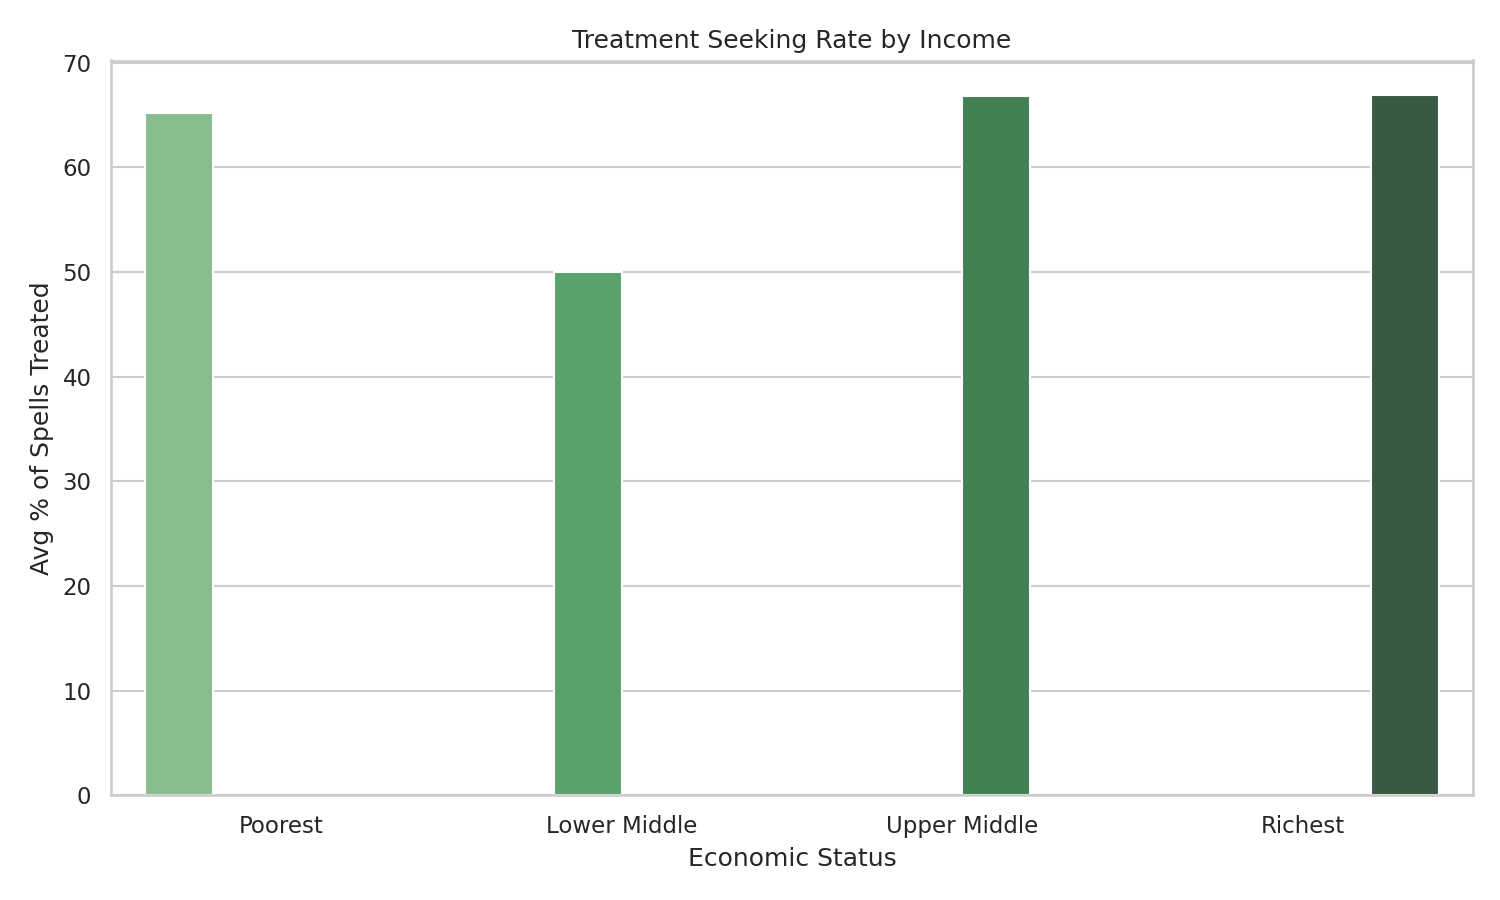
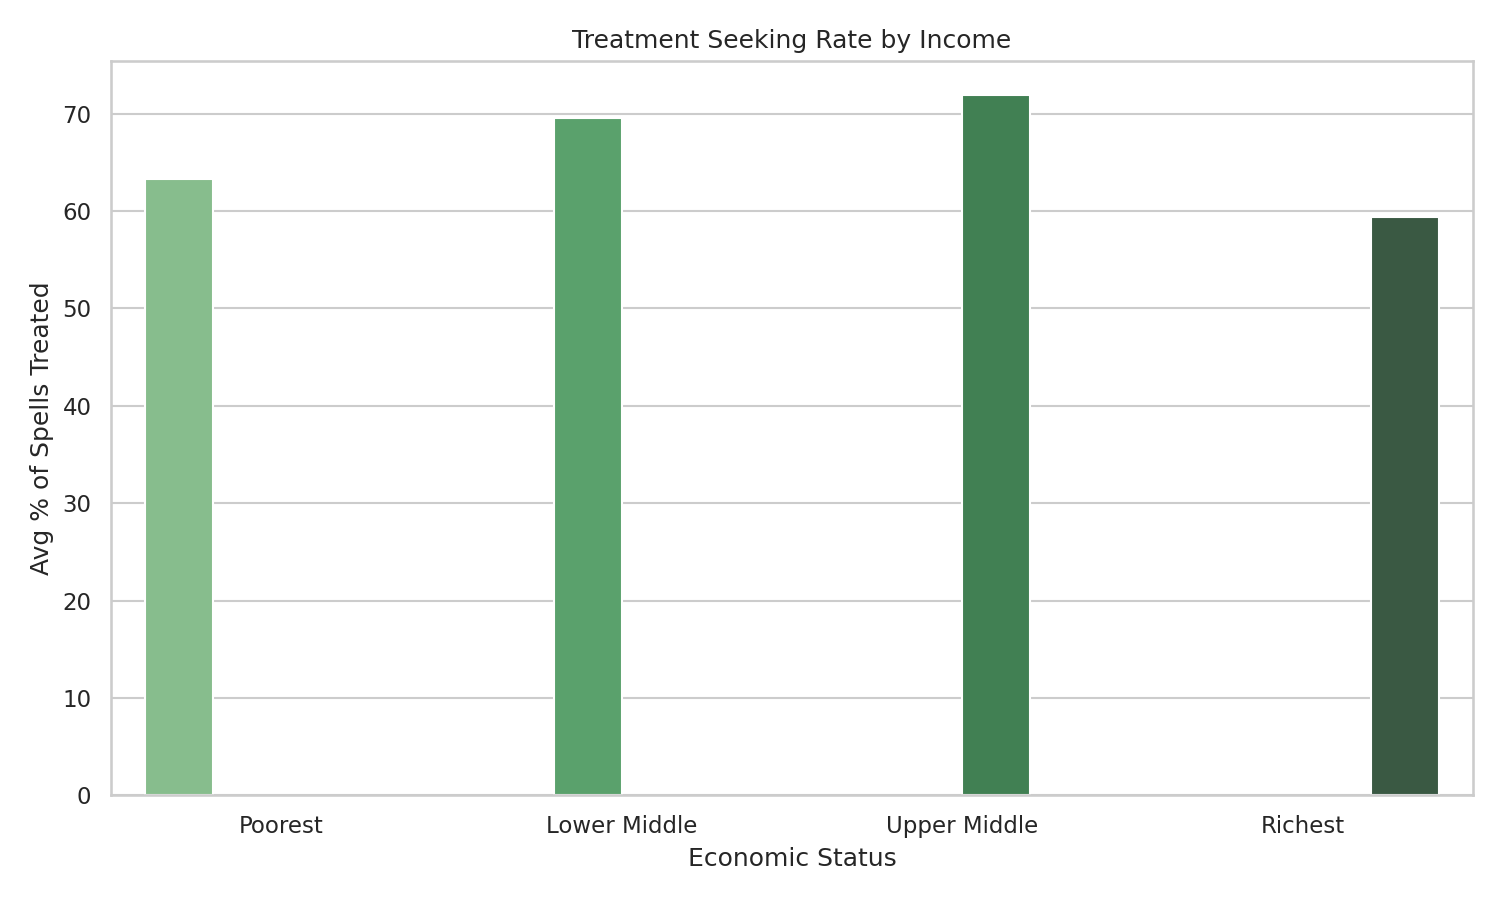
code changed

diff --git a/rmhs_1.py b/rmhs_1.py
@@ -22,103 +22,80 @@ print(f"✅ Filtered for Odisha. Sample Size: {len(odisha_df)}")
 cols_to_fill = ['prop_spells_treated', 'Major_source_of_finance']
 odisha_df[cols_to_fill] = odisha_df[cols_to_fill].fillna(0)
 
-# B. Outlier Handling (Capping Expenditure at 99th Percentile)
-exp_cap = odisha_df['Household_usual_consumer_expendi'].quantile(0.99)
-odisha_df['Household_usual_consumer_expendi_clean'] = np.where(
-    odisha_df['Household_usual_consumer_expendi'] > exp_cap,
+# B. [CRITICAL FIX] Filter Invalid Expenditure & Create Economic Status
+# 1. Remove rows with unrealistic expenditure (< 100) to fix "Lower Middle" issue
+valid_exp_df = odisha_df[odisha_df['Household_usual_consumer_expendi'] > 100].copy()
+
+# 2. Re-calculate Cap on valid data
+exp_cap = valid_exp_df['Household_usual_consumer_expendi'].quantile(0.99)
+valid_exp_df['Household_usual_consumer_expendi_clean'] = np.where(
+    valid_exp_df['Household_usual_consumer_expendi'] > exp_cap,
     exp_cap,
-    odisha_df['Household_usual_consumer_expendi']
+    valid_exp_df['Household_usual_consumer_expendi']
 )
 
-# C. Variable Creation: Economic Status (Quartiles)
-odisha_df['Economic_Status'] = pd.qcut(
-    odisha_df['Household_usual_consumer_expendi_clean'], 
+# 3. Create Quartiles (Economic Status)
+valid_exp_df['Economic_Status'] = pd.qcut(
+    valid_exp_df['Household_usual_consumer_expendi_clean'], 
     q=4, 
     labels=['Poorest', 'Lower Middle', 'Upper Middle', 'Richest']
 )
 
-# D. Variable Creation: Sector (Rural vs Urban)
+# Update the main dataframe
+odisha_df = valid_exp_df
+
+# C. Sector (Rural vs Urban)
 odisha_df['Sector_Label'] = odisha_df['Sector'].map({1: 'Rural', 2: 'Urban'})
 
-# E. Variable Creation: Household Size Bins (Defining "Family Size")
+# D. Family Size Bins
 odisha_df['Family_Size_Bin'] = pd.cut(
     odisha_df['Household_size'], 
     bins=[0, 3, 6, 20], 
     labels=['Small (1-3)', 'Medium (4-6)', 'Large (7+)']
 )
 
-# F. Variable Creation: Social Group Label
+# E. [UPDATED] Social Group Label
+# 1=ST, 2=SC, 3=OBC, 9=Others. 
+# Anything else (4, 5, 10) becomes 'Undefined Codes'.
 social_map = {1: 'ST', 2: 'SC', 3: 'OBC', 9: 'Others'}
-odisha_df['Social_Group_Label'] = odisha_df['Social_group'].map(social_map).fillna('Other')
+odisha_df['Social_Group_Label'] = odisha_df['Social_group'].map(social_map).fillna('Undefined Codes')
 
-# G. Variable Creation: Source of Finance Label
+# F. Source of Finance Label
 finance_map = {0: 'None', 1: 'Income/Savings', 2: 'Borrowings', 3: 'Sale of Assets', 4: 'Friends/Family', 9: 'Other'}
 odisha_df['Finance_Label'] = odisha_df['Major_source_of_finance'].map(finance_map).fillna('Other')
 
-# H. Define Prevalence (Binary Indicator)
+# G. Define Prevalence
 odisha_df['Has_Ailment'] = odisha_df['spells_count'].apply(lambda x: 1 if x > 0 else 0)
-
-# I. Isolate Sick Households
 sick_households = odisha_df[odisha_df['Has_Ailment'] == 1].copy()
 
 # --- 4. Generate Tables ---
 print("\nGenerating summary tables...")
 
-# Helper function to create standard prevalence/seeking tables
 def create_summary_table(group_col):
     prev = odisha_df.groupby(group_col, observed=True)['Has_Ailment'].mean() * 100
     seek = sick_households.groupby(group_col, observed=True)['prop_spells_treated'].mean() * 100
     return pd.DataFrame({'Prevalence (%)': prev, 'Treatment Rate (%)': seek})
 
-# Table 1: Economic Status
+# Create all tables
 table1 = create_summary_table('Economic_Status')
-
-# Table 2: Sector (Rural vs Urban)
 table2 = create_summary_table('Sector_Label')
-
-# Table 3: Social Group
 table3 = create_summary_table('Social_Group_Label')
-
-# Table 4: Family Size
 table4 = create_summary_table('Family_Size_Bin')
+table5 = pd.crosstab(sick_households['Economic_Status'], sick_households['Finance_Label'], normalize='index') * 100
 
-# Table 5: Source of Finance (Cross-tabulation)
-table5 = pd.crosstab(
-    sick_households['Economic_Status'], 
-    sick_households['Finance_Label'], 
-    normalize='index'
-) * 100
-
-# Write Tables to File
+# Save Tables to File
 output_file = 'odisha_analysis_tables.txt'
 with open(output_file, 'w') as f:
     f.write("==================================================\n")
     f.write("      ODISHA HEALTHCARE ANALYSIS TABLES\n")
     f.write("==================================================\n\n")
-    
-    f.write("--- TABLE 1: ANALYSIS BY ECONOMIC STATUS ---\n")
-    f.write(table1.round(2).to_string())
-    f.write("\n\n")
-    
-    f.write("--- TABLE 2: ANALYSIS BY SECTOR (RURAL/URBAN) ---\n")
-    f.write(table2.round(2).to_string())
-    f.write("\n\n")
-    
-    f.write("--- TABLE 3: ANALYSIS BY SOCIAL GROUP ---\n")
-    f.write(table3.round(2).to_string())
-    f.write("\n\n")
-    
-    f.write("--- TABLE 4: ANALYSIS BY FAMILY SIZE ---\n")
-    f.write(table4.round(2).to_string())
-    f.write("\n\n")
-    
-    f.write("--- TABLE 5: SOURCE OF FINANCE BY ECONOMIC STATUS (%) ---\n")
-    f.write("(Rows sum to 100%)\n")
-    f.write(table5.round(2).to_string())
-    f.write("\n\n")
+    f.write("--- TABLE 1: ANALYSIS BY ECONOMIC STATUS ---\n" + table1.round(2).to_string() + "\n\n")
+    f.write("--- TABLE 2: ANALYSIS BY SECTOR (RURAL/URBAN) ---\n" + table2.round(2).to_string() + "\n\n")
+    f.write("--- TABLE 3: ANALYSIS BY SOCIAL GROUP ---\n" + table3.round(2).to_string() + "\n\n")
+    f.write("--- TABLE 4: ANALYSIS BY FAMILY SIZE ---\n" + table4.round(2).to_string() + "\n\n")
+    f.write("--- TABLE 5: SOURCE OF FINANCE (% of Sick HH) ---\n" + table5.round(2).to_string() + "\n\n")
 
 print(f"✅ Tables saved to '{output_file}'")
-
 
 # --- 5. Generate and Save Individual Graphs ---
 sns.set_theme(style="whitegrid")
@@ -126,8 +103,7 @@ print("Generating separate graph files...")
 
 # Graph 1: Prevalence by Economic Status & Sector
 plt.figure(figsize=(10, 6))
-sns.barplot(data=odisha_df, x='Economic_Status', y='Has_Ailment', hue='Sector_Label', 
-            palette="Blues_d", errorbar=None)
+sns.barplot(data=odisha_df, x='Economic_Status', y='Has_Ailment', hue='Sector_Label', palette="Blues_d", errorbar=None)
 plt.title('Prevalence of Ailment: Economic Status & Sector')
 plt.ylabel('Prevalence (Proportion)')
 plt.tight_layout()
@@ -137,7 +113,6 @@ print("Saved: graph1_prevalence_econ_sector.png")
 
 # Graph 2: Treatment Seeking Behavior
 plt.figure(figsize=(10, 6))
-# Use the table data calculated above for consistency
 sns.barplot(x=table1.index, y=table1['Treatment Rate (%)'], palette="Greens_d", hue=table1.index, legend=False)
 plt.title('Treatment Seeking Rate by Income')
 plt.ylabel('Avg % of Spells Treated')
@@ -147,25 +122,21 @@ plt.savefig("graph2_seeking_rate.png", dpi=150)
 plt.close()
 print("Saved: graph2_seeking_rate.png")
 
-# Graph 3: Medical Expenditure Distribution (Boxplot)
+# Graph 3: Medical Expenditure Distribution
 plt.figure(figsize=(10, 6))
 spenders = sick_households[sick_households['outpatient_expenditure_total_Rs'] > 0]
-sns.boxplot(data=spenders, x='Economic_Status', y='outpatient_expenditure_total_Rs', 
-            palette="Set2", hue='Economic_Status', legend=False)
+sns.boxplot(data=spenders, x='Economic_Status', y='outpatient_expenditure_total_Rs', palette="Set2", hue='Economic_Status', legend=False)
 plt.yscale('log')
 plt.title('Medical Expenditure Distribution (Log Scale)')
 plt.ylabel('Expenditure (INR)')
-plt.xlabel('Economic Status')
 plt.tight_layout()
 plt.savefig("graph3_expenditure_boxplot.png", dpi=150)
 plt.close()
 print("Saved: graph3_expenditure_boxplot.png")
 
-# Graph 4: Prevalence by Social Group
+# Graph 4: Prevalence by Social Group (Updated Labeling)
 plt.figure(figsize=(10, 6))
-sns.barplot(data=odisha_df, x='Social_Group_Label', y='Has_Ailment', 
-            palette="viridis", estimator=np.mean, errorbar=None, 
-            hue='Social_Group_Label', legend=False)
+sns.barplot(data=odisha_df, x='Social_Group_Label', y='Has_Ailment', palette="viridis", estimator=np.mean, errorbar=None, hue='Social_Group_Label', legend=False)
 plt.title('Prevalence by Social Group')
 plt.ylabel('Prevalence (Proportion)')
 plt.xlabel('Social Group')
@@ -176,12 +147,9 @@ print("Saved: graph4_prevalence_social_group.png")
 
 # Graph 5: Prevalence by Family Size
 plt.figure(figsize=(10, 6))
-sns.barplot(data=odisha_df, x='Family_Size_Bin', y='Has_Ailment', 
-            palette="coolwarm", estimator=np.mean, errorbar=None, 
-            hue='Family_Size_Bin', legend=False)
+sns.barplot(data=odisha_df, x='Family_Size_Bin', y='Has_Ailment', palette="coolwarm", estimator=np.mean, errorbar=None, hue='Family_Size_Bin', legend=False)
 plt.title('Prevalence by Family Size')
 plt.ylabel('Prevalence (Proportion)')
-plt.xlabel('Family Size Group')
 plt.tight_layout()
 plt.savefig("graph5_prevalence_family_size.png", dpi=150)
 plt.close()
@@ -190,7 +158,6 @@ print("Saved: graph5_prevalence_family_size.png")
 # Graph 6: Source of Finance
 plt.figure(figsize=(12, 7))
 finance_data = sick_households[sick_households['Finance_Label'] != 'None']
-# Sort for consistent plotting
 sns.countplot(data=finance_data, x='Economic_Status', hue='Finance_Label', palette="muted")
 plt.title('Source of Finance by Economic Status')
 plt.ylabel('Count of Households')
